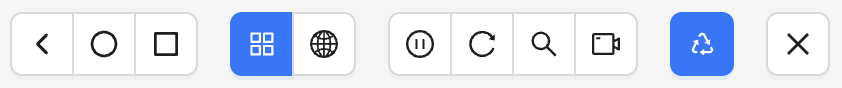
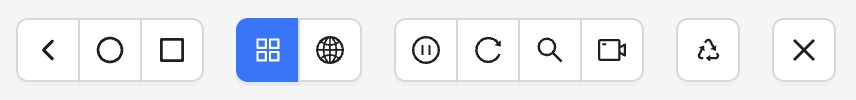
chore: disable reload on disconnect by default (#2360)

diff --git a/app/common/renderer/reducers/SessionInspector.js b/app/common/renderer/reducers/SessionInspector.js
@@ -134,7 +134,7 @@ const INITIAL_STATE = {
   isAwaitingMjpegStream: true,
   showSourceAttrs: false,
   gestureUploadErrors: null,
-  autoSessionRestart: true,
+  autoSessionRestart: false,
 };
 
 let nextState;

diff --git a/docs/session-inspector/header.md b/docs/session-inspector/header.md
@@ -123,10 +123,11 @@ with Appium client code for all supported interactions.
 
 ![Reload on Disconnect Button](./assets/images/header/reload-on-disconnect-button.png)
 
-This button, which is enabled by default, controls the ability to automatically reload the session
-if the device under test temporarily disconnects. The session reload is triggered upon any
-interaction with the Appium session (selecting an element, interacting with the screenshot,
-searching for elements, etc.) that returns a failed response.
+This button controls the ability to automatically reload the session if the device under test
+temporarily disconnects. The session reload is triggered upon any interaction with the Appium
+session (selecting an element, interacting with the screenshot, searching for elements, etc.)
+that returns a failed response. Since such a response is not guaranteed to be caused by a
+disconnected device, this functionality is disabled by default.
 
 ## Quit Session
 
